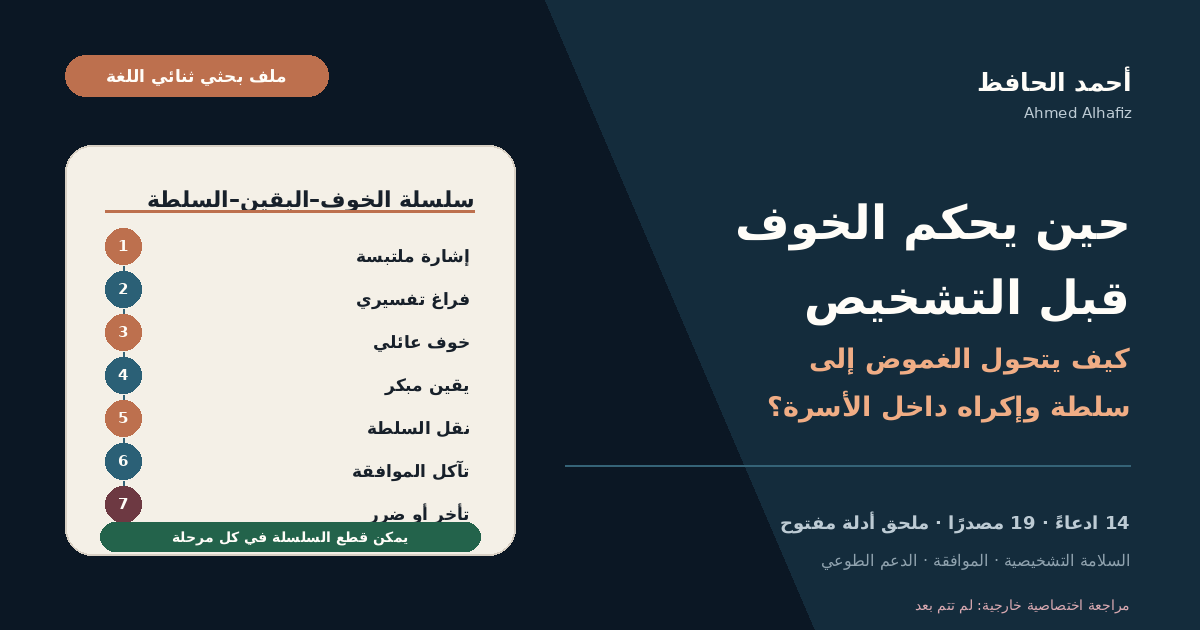
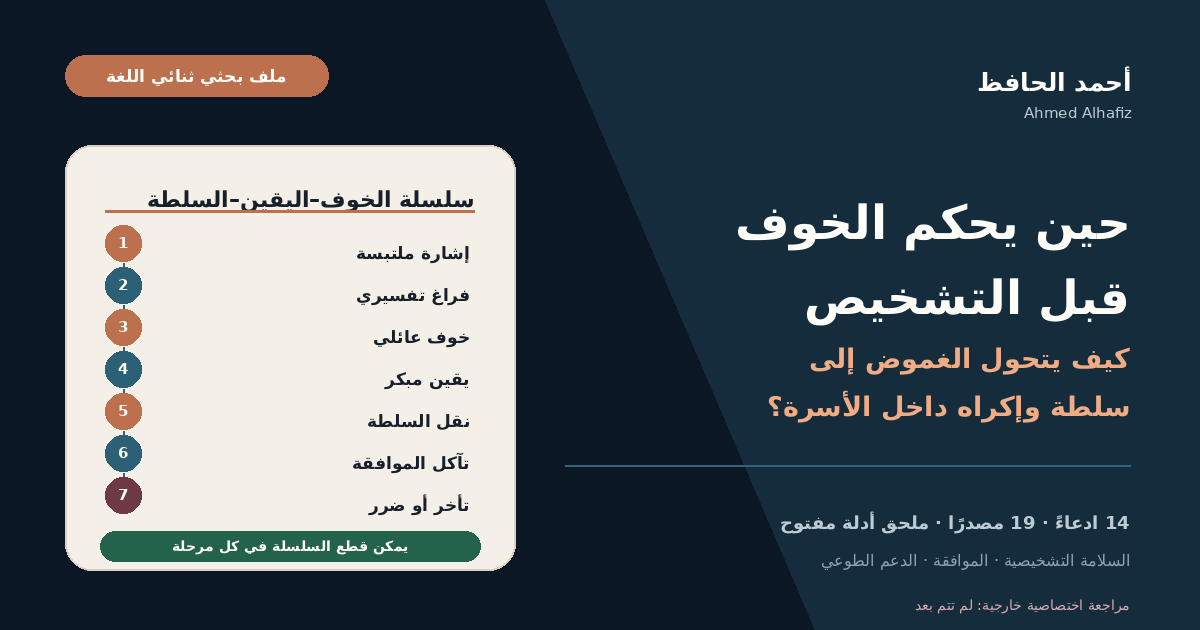
Polish dossier share card and add framework visual captures

diff --git a/articles/diagnostic-uncertainty-family-fear-coercive-authority/index.html b/articles/diagnostic-uncertainty-family-fear-coercive-authority/index.html
@@ -72,7 +72,7 @@
 
 <h2 id="cascade">2. سلسلة الخوف–اليقين–السلطة</h2>
 <p>يقترح هذا الملف إطارًا تحليليًا أصليًا من سبع مراحل أسمّيه <strong>سلسلة الخوف–اليقين–السلطة</strong>. هو تركيب تفسيري يجمع مبادئ السلامة التشخيصية والموافقة وحقوق الإنسان ودراسات مسارات طلب المساعدة؛ <strong>وليس مقياسًا سريريًا مُعتمدًا، ولا اختبارًا يتنبأ بما ستفعله كل أسرة.</strong> فائدته أن يكشف نقطة التحول التي يصبح فيها الخوف نظام قرار.</p>
-<figure class="figure-card"><img src="/assets/figures/fear-certainty-authority-cascade-ar.svg" width="1200" height="760" alt="سلسلة من سبع مراحل تبدأ بعرض ملتبس ثم فراغ تفسيري وخوف عائلي ويقين مبكر ونقل للسلطة وتآكل للموافقة وتنتهي بالتأخر أو الضرر"><figcaption><strong>شكل 1.</strong> سلسلة الخوف–اليقين–السلطة. السهم لا يعني أن الانتقال حتمي؛ يمكن قطع السلسلة في كل مرحلة بالتقييم والشفافية وحفظ صوت الشخص.</figcaption></figure>
+<figure class="figure-card" id="cascade-figure"><img src="/assets/figures/fear-certainty-authority-cascade-ar.svg" width="1200" height="760" alt="سلسلة من سبع مراحل تبدأ بعرض ملتبس ثم فراغ تفسيري وخوف عائلي ويقين مبكر ونقل للسلطة وتآكل للموافقة وتنتهي بالتأخر أو الضرر"><figcaption><strong>شكل 1.</strong> سلسلة الخوف–اليقين–السلطة. السهم لا يعني أن الانتقال حتمي؛ يمكن قطع السلسلة في كل مرحلة بالتقييم والشفافية وحفظ صوت الشخص.</figcaption></figure>
 
 <h3>المرحلة الأولى: إشارة ملتبسة</h3>
 <p>يبدأ المسار عادةً بشيء حقيقي لكنه غير محسوم: تغير نوم، كلام غير معتاد، فقد ذاكرة، تجربة حسية، نوبة، إصابة، خوف شديد أو سلوك لا يستطيع الشخص تفسيره. الواقعة تستحق الانتباه، لكن وجودها لا يحدد سببها وحده. وقد تتشابه ظواهر مختلفة في مظهرها، لذلك تكون البداية الآمنة هي جمع الوقائع وتقييم الخطر لا تسمية السبب من غرفة الجلوس.</p>
@@ -114,7 +114,7 @@
 
 <h2 id="parallel">6. مسار الأمان الموازي</h2>
 <p>يقابل الإطار السابقَ نموذجٌ عملي مقترح أسميه <strong>مسار الأمان الموازي</strong>. فكرته ألا تتنافس الأسرة بين «إما طب أو دين»، ولا بين «إما نصدق كل تفسير أو نكذب التجربة كلها». يمكن تشغيل مسارات متزامنة، بشرط أن يكون لكل مسار حد واضح وأن يبقى الخطر والموافقة فوق التنافس.</p>
-<figure class="figure-card"><img src="/assets/figures/parallel-path-safeguard-ar.svg" width="1200" height="760" alt="مسار أمان يضع الشخص في المركز ويربط السلامة الفورية بالتقييم المتعدد والتوثيق والموافقة والدعم العائلي والديني الطوعي والمتابعة"><figcaption><strong>شكل 2.</strong> مسار الأمان الموازي. المركز هو الشخص، لا التفسير. الدعم الديني ممكن، لكنه لا يحل محل التقييم ولا يمنح سلطة على الجسد.</figcaption></figure>
+<figure class="figure-card" id="parallel-figure"><img src="/assets/figures/parallel-path-safeguard-ar.svg" width="1200" height="760" alt="مسار أمان يضع الشخص في المركز ويربط السلامة الفورية بالتقييم المتعدد والتوثيق والموافقة والدعم العائلي والديني الطوعي والمتابعة"><figcaption><strong>شكل 2.</strong> مسار الأمان الموازي. المركز هو الشخص، لا التفسير. الدعم الديني ممكن، لكنه لا يحل محل التقييم ولا يمنح سلطة على الجسد.</figcaption></figure>
 
 <ol>
 <li><strong>السلامة الفورية:</strong> افحص خطر إيذاء النفس أو الآخرين، الوعي، التنفس، الإصابات، التشنج، المواد أو الأدوية، والقدرة على البقاء آمنًا. عند الخطر لا تنتظر اكتمال القصة.</li>

diff --git a/en/articles/diagnostic-uncertainty-family-fear-coercive-authority/index.html b/en/articles/diagnostic-uncertainty-family-fear-coercive-authority/index.html
@@ -72,7 +72,7 @@
 
 <h2 id="cascade">2. The Fear–Certainty–Authority Cascade</h2>
 <p>This dossier proposes an original seven-stage analytical model: the <strong>Fear–Certainty–Authority Cascade</strong>. It synthesises diagnostic-safety guidance, human-rights standards, consent doctrine and help-seeking research. <strong>It is not a validated clinical scale and should not be used to diagnose a family or predict an outcome.</strong> Its purpose is to locate the moment fear stops being an emotion and becomes a decision system.</p>
-<figure class="figure-card"><img src="/assets/figures/fear-certainty-authority-cascade-en.svg" width="1200" height="760" alt="A seven-stage cascade from ambiguous signal through interpretive vacuum, family threat amplification, premature closure, authority transfer and consent erosion to delay or harm"><figcaption><strong>Figure 1.</strong> The Fear–Certainty–Authority Cascade. The sequence is not inevitable. Assessment, transparency and respect for the person can interrupt it at every stage.</figcaption></figure>
+<figure class="figure-card" id="cascade-figure"><img src="/assets/figures/fear-certainty-authority-cascade-en.svg" width="1200" height="760" alt="A seven-stage cascade from ambiguous signal through interpretive vacuum, family threat amplification, premature closure, authority transfer and consent erosion to delay or harm"><figcaption><strong>Figure 1.</strong> The Fear–Certainty–Authority Cascade. The sequence is not inevitable. Assessment, transparency and respect for the person can interrupt it at every stage.</figcaption></figure>
 
 <h3>Stage 1 — Ambiguous signal</h3>
 <p>The starting point is usually real but non-specific: altered sleep, unusual speech, memory gaps, a sensory experience, a seizure-like event, injury, severe fear or behaviour the person cannot explain. It deserves attention; it does not identify its own cause. Similar appearances can arise through very different mechanisms, so the first task is risk assessment and careful description—not diagnosis by household vote.</p>
@@ -115,7 +115,7 @@
 
 <h2 id="parallel">6. The Parallel-Path Safeguard</h2>
 <p>Against the cascade, this dossier proposes a second original framework: the <strong>Parallel-Path Safeguard</strong>. A family need not choose between “medicine or faith,” nor between “believe every causal interpretation” and “dismiss the experience.” Several routes can run at once, provided safety and consent sit above the competition.</p>
-<figure class="figure-card"><img src="/assets/figures/parallel-path-safeguard-en.svg" width="1200" height="760" alt="A person-centred parallel pathway linking immediate safety, open hypotheses, documentation, consent, family support, voluntary spiritual support and follow-up"><figcaption><strong>Figure 2.</strong> The Parallel-Path Safeguard. The person—not the explanatory camp—remains at the centre. Spiritual support may accompany care but does not replace assessment or confer power over the body.</figcaption></figure>
+<figure class="figure-card" id="parallel-figure"><img src="/assets/figures/parallel-path-safeguard-en.svg" width="1200" height="760" alt="A person-centred parallel pathway linking immediate safety, open hypotheses, documentation, consent, family support, voluntary spiritual support and follow-up"><figcaption><strong>Figure 2.</strong> The Parallel-Path Safeguard. The person—not the explanatory camp—remains at the centre. Spiritual support may accompany care but does not replace assessment or confer power over the body.</figcaption></figure>
 
 <ol>
 <li><strong>Immediate safety:</strong> assess risk of harm, consciousness, breathing, injury, seizure, medication or substance factors, and whether the environment can remain safe. Do not wait for the story to become coherent when danger is present.</li>

diff --git a/tools/generate_diagnostic_uncertainty_social_cards.py b/tools/generate_diagnostic_uncertainty_social_cards.py
@@ -75,7 +75,7 @@ def rounded(
 
 
 def chain_panel(draw: ImageDraw.ImageDraw, *, arabic: bool) -> None:
-    rounded(draw, (65, 145, 515, 555), 27, PAPER, outline=BORDER, width=2)
+    rounded(draw, (65, 145, 515, 570), 27, PAPER, outline=BORDER, width=2)
     if arabic:
         ar(draw, (474, 186), "سلسلة الخوف–اليقين–السلطة", size=22, fill=INK, bold=True)
         labels = ["إشارة ملتبسة", "فراغ تفسيري", "خوف عائلي", "يقين مبكر", "نقل السلطة", "تآكل الموافقة", "تأخر أو ضرر"]
@@ -84,7 +84,7 @@ def chain_panel(draw: ImageDraw.ImageDraw, *, arabic: bool) -> None:
         labels = ["Ambiguous signal", "Interpretive vacuum", "Family threat", "Premature closure", "Authority transfer", "Consent erosion", "Delay or harm"]
     draw.line((105, 211, 474, 211), fill=COPPER, width=3)
 
-    y = 246
+    y = 243
     for number, label in enumerate(labels, 1):
         color = RED if number == 7 else (COPPER if number % 2 else BLUE)
         draw.ellipse((105, y - 18, 141, y + 18), fill=color)
@@ -95,13 +95,13 @@ def chain_panel(draw: ImageDraw.ImageDraw, *, arabic: bool) -> None:
             draw.text((158, y), label, font=font(16, bold=True), fill=INK, anchor="lm")
         if number < 7:
             draw.line((123, y + 20, 123, y + 31), fill=LINE, width=2)
-        y += 43
+        y += 42
 
-    rounded(draw, (100, 522, 480, 551), 14, GREEN)
+    rounded(draw, (100, 531, 480, 561), 15, GREEN)
     if arabic:
-        ar(draw, (290, 537), "يمكن قطع السلسلة في كل مرحلة", size=14, fill=WHITE, anchor="mm", bold=True)
+        ar(draw, (290, 546), "يمكن قطع السلسلة في كل مرحلة", size=14, fill=WHITE, anchor="mm", bold=True)
     else:
-        draw.text((290, 537), "Interrupt the cascade at every stage", font=font(13, bold=True), fill=WHITE, anchor="mm")
+        draw.text((290, 546), "Interrupt the cascade at every stage", font=font(13, bold=True), fill=WHITE, anchor="mm")
 
 
 def draw_arabic() -> Path:

diff --git a/tools/dossier11_integrity.py b/tools/dossier11_integrity.py
@@ -207,6 +207,9 @@ def validate_pages() -> None:
             fail(f"{rel}: thematic book relationship must use mentions")
         if "claims.json" not in html or "/evidence/" not in html:
             fail(f"{rel}: evidence surfaces missing")
+        for figure_id in ('id="cascade-figure"', 'id="parallel-figure"'):
+            if figure_id not in html:
+                fail(f"{rel}: stable framework figure target missing: {figure_id}")
         if language == "ar":
             safety_tokens = ("الطوارئ", "لا توقف دواء", "ليست تشخيصًا")
             review_tokens = ("لم تتم بعد مراجعة مستقلة", "ليس مقياسًا سريريًا مُعتمدًا", "لا يُقدَّم بوصفه أداة تشخيصية")

diff --git a/.github/visual-review/run_visual_review.py b/.github/visual-review/run_visual_review.py
@@ -77,6 +77,10 @@ TARGET_PAGES = (
     ("about-ar-contact", "/about/", "#contact", "start"),
     ("about-en-contact", "/en/about/", "#contact", "start"),
     ("about-de-contact", "/de/about/", "#contact", "start"),
+    ("fear-cascade-ar", "/articles/diagnostic-uncertainty-family-fear-coercive-authority/", "#cascade-figure", "start"),
+    ("fear-parallel-ar", "/articles/diagnostic-uncertainty-family-fear-coercive-authority/", "#parallel-figure", "start"),
+    ("fear-cascade-en", "/en/articles/diagnostic-uncertainty-family-fear-coercive-authority/", "#cascade-figure", "start"),
+    ("fear-parallel-en", "/en/articles/diagnostic-uncertainty-family-fear-coercive-authority/", "#parallel-figure", "start"),
 )
 
 SOCIAL_CARDS = (
